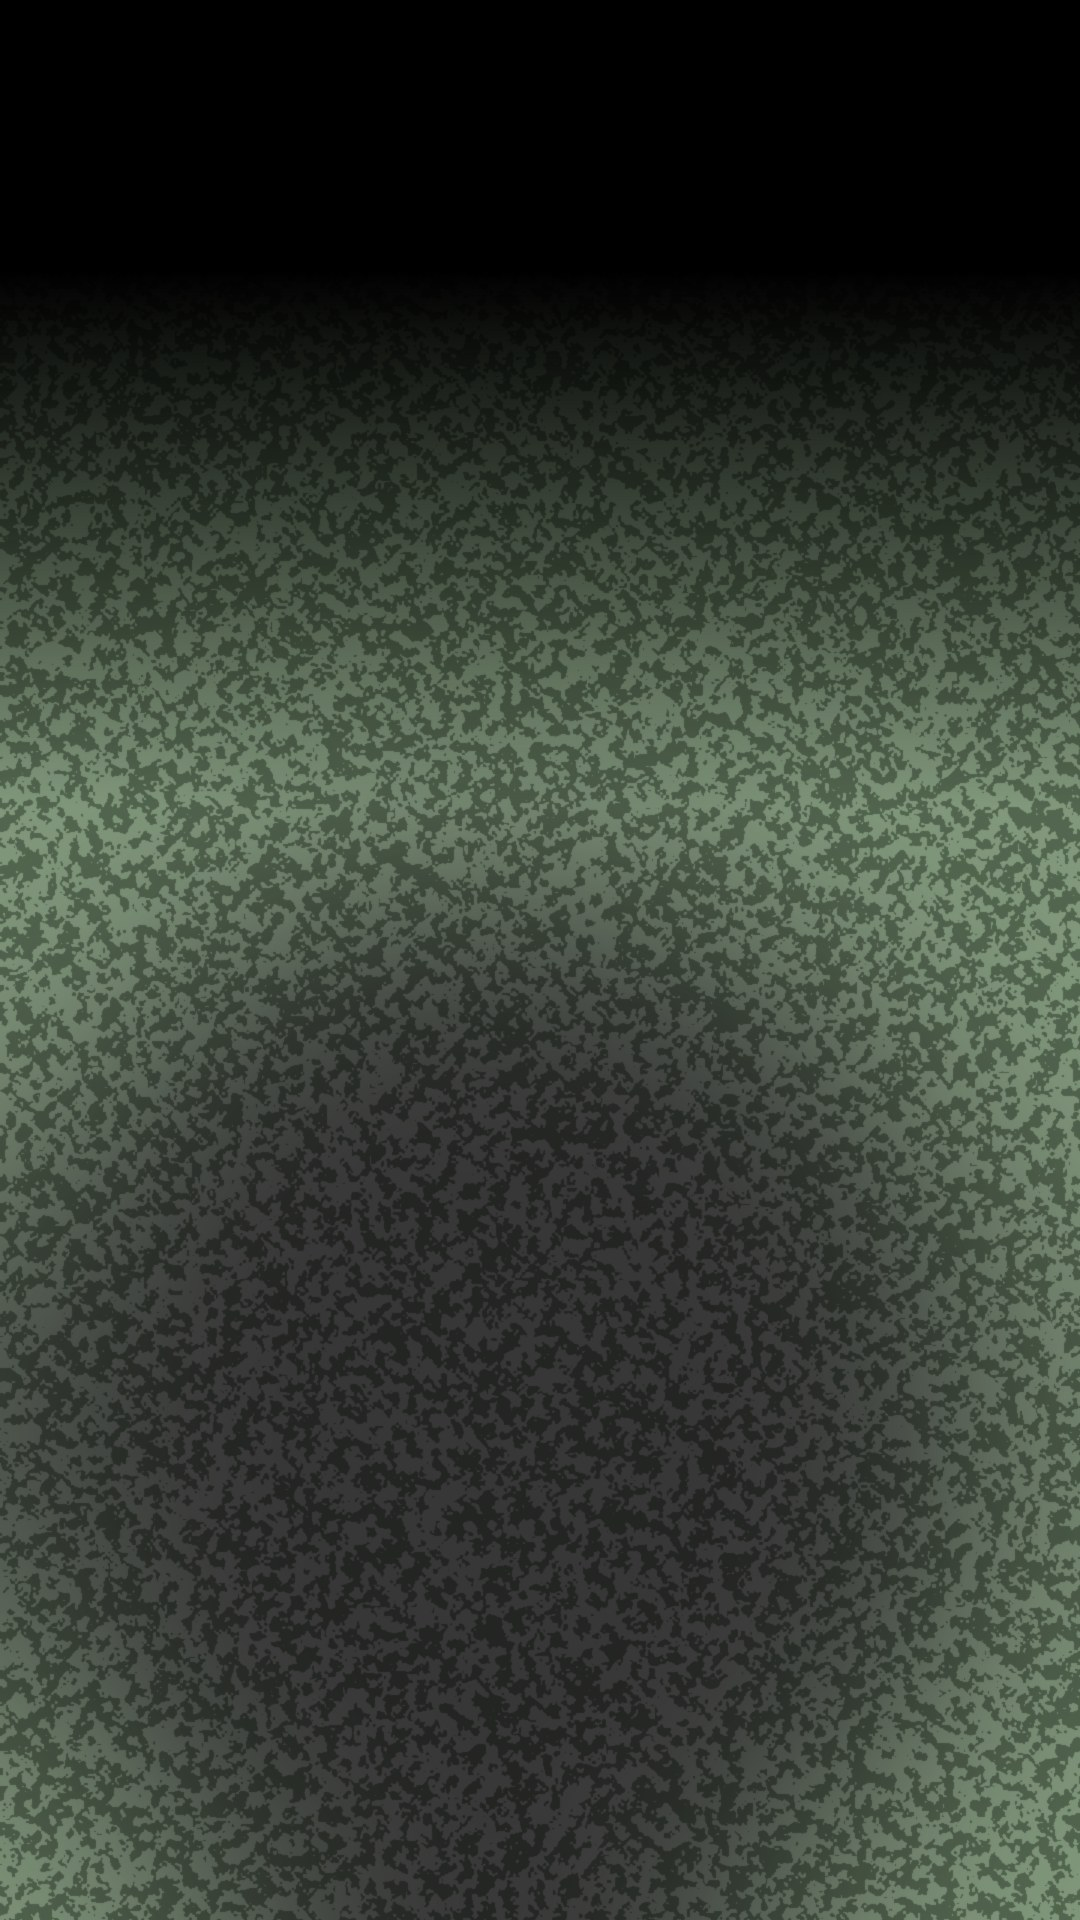
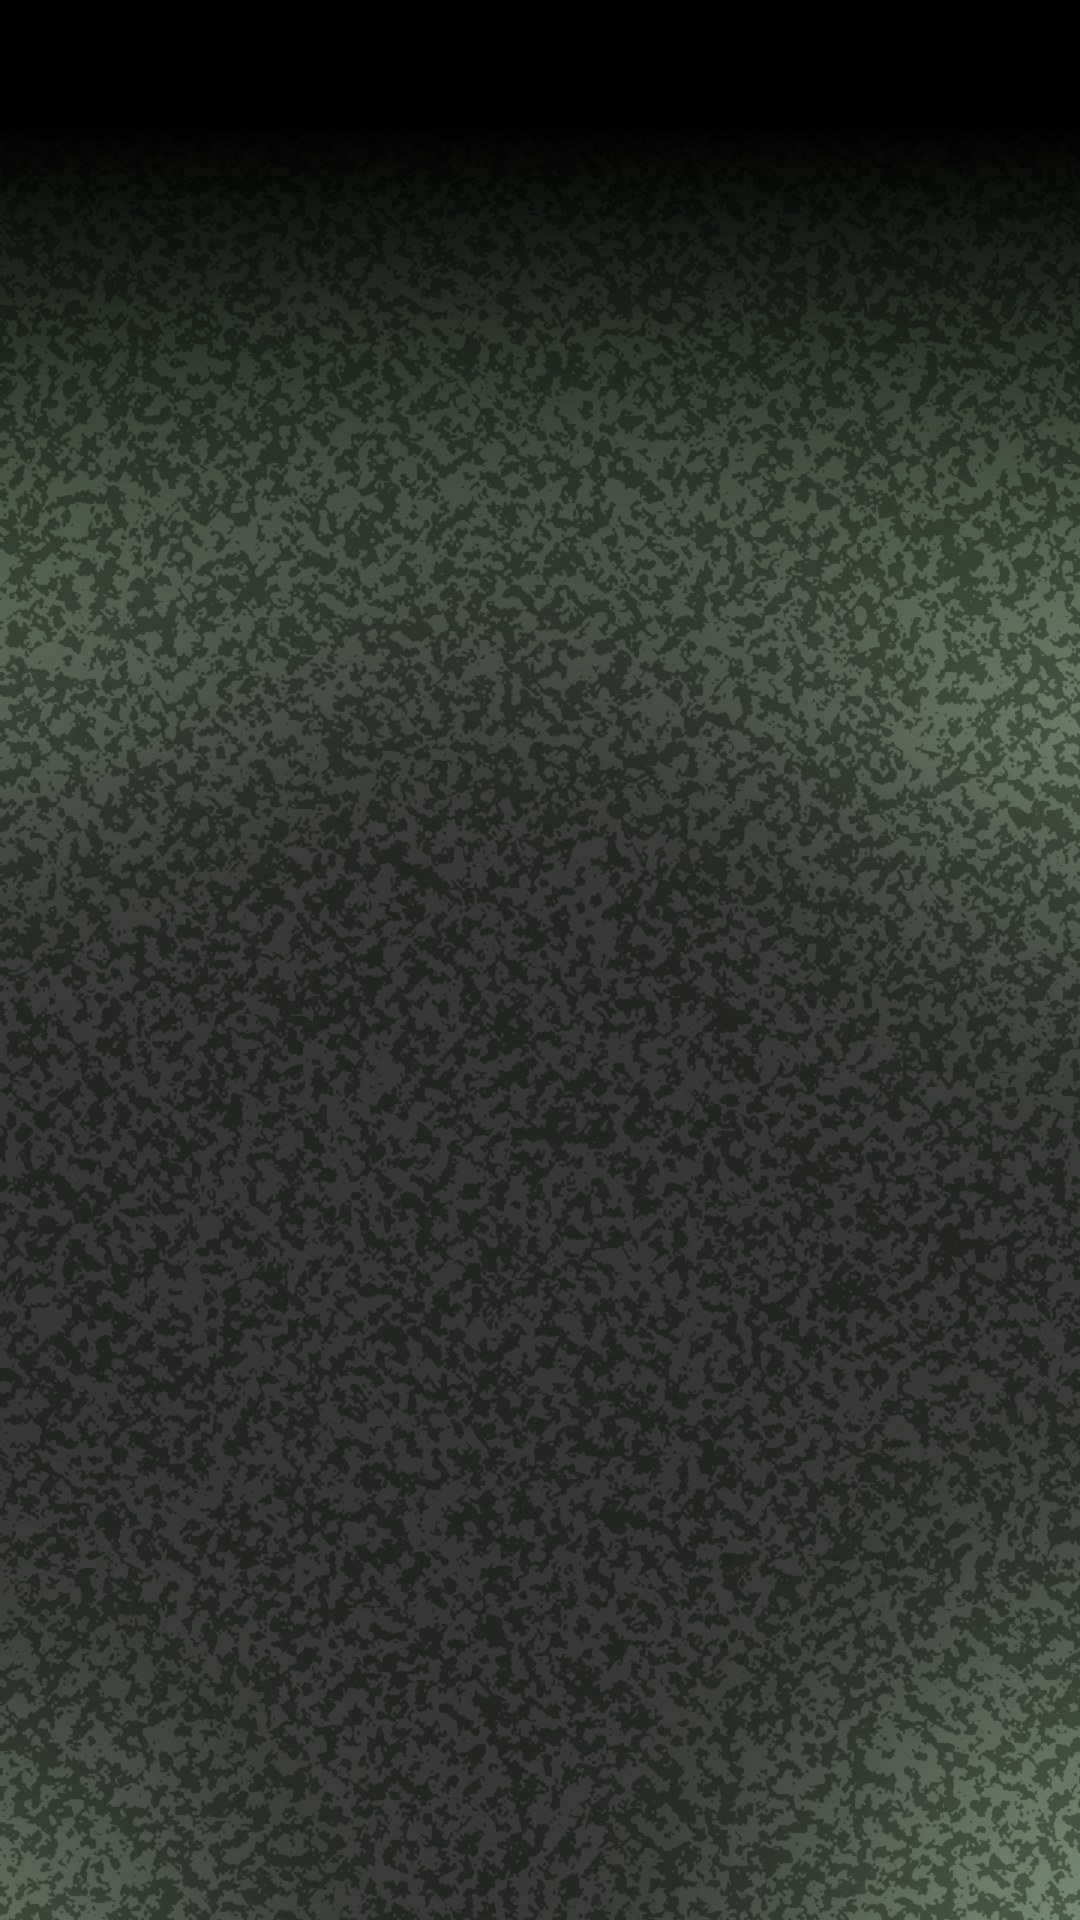
Poster: model drawn 1.5x so she fills the 9:16 height (no empty top); bg, glow and text re-placed to match

diff --git a/public/poster/index.html b/public/poster/index.html
@@ -14,7 +14,7 @@ html, body { margin: 0; width: 100%; height: 100%; background: #000; overflow: h
 #stage { position: absolute; left: 0; top: 0; width: 1080px; height: 1920px; transform-origin: 0 0; overflow: hidden; opacity: 0;
   background: #000 url(bg.jpg) 0 0 / 1080px 1920px no-repeat; }
 .row { position: absolute; left: 0; height: 160px; background: url(row.png) 0 0 / auto 160px repeat-x; will-change: transform; backface-visibility: hidden; }
-.girl { position: absolute; left: 0; top: 570px; width: 1080px; height: 1350px; }
+.girl { position: absolute; left: -180px; top: 120px; width: 1440px; height: 1800px; }   /* Figma frame drawn 1.5x so she fills the height */
 #word { position: absolute; left: 0; width: 1080px; overflow: hidden; }
 .ltr { position: absolute; top: 0; background: url(word.png) no-repeat; will-change: transform; backface-visibility: hidden; }
 #band { position: absolute; top: 0; left: 0; width: 300px; overflow: hidden; will-change: transform; opacity: 0;
@@ -45,7 +45,7 @@ html, body { margin: 0; width: 100%; height: 100%; background: #000; overflow: h
     // 2/10 rows: one shared image strip per row, two loops wide; fade towards the top is a fixed opacity per row
     var host = document.getElementById('rows'), loop = L.rowLoop;
     for (var i = 0; i < 17; i++) {
-      var y = i * 116 - 36, a = Math.max(0, Math.min(1, (y / 1920 - .16) / .46));
+      var y = i * 116 - 36, a = Math.max(0, Math.min(1, (y / 1920 - .12) / .5));
       if (a <= 0.01) continue;
       var row = document.createElement('div'); row.className = 'row';
       row.style.top = y + 'px'; row.style.width = Math.ceil(loop * 2) + 'px'; row.style.opacity = a.toFixed(3);

diff --git a/tools/poster_assets.py b/tools/poster_assets.py
@@ -14,6 +14,11 @@ from PIL import Image, ImageDraw, ImageFilter, ImageFont, ImageChops
 ROOT = pathlib.Path(__file__).resolve().parent.parent
 OUT = ROOT / 'public/poster'; FONT = str(ROOT / 'src/assets/higed.ttf')
 W, H = 1080, 1920
+# The Figma frame is 960x1200; on the 9:16 screen it is drawn 1.5x (1440x1800) at (-180, 120) so the model fills the height.
+FX, FY, FS = -180, 120, 1.5
+def fx(x): return FX + x * FS
+def fy(y): return FY + y * FS
+CAP_TOP = round(fy(90))                                           # KACHA HAUS caps start where the Figma caps do
 
 def lerp(a, b, t): return tuple(round(a[i] + (b[i] - a[i]) * t) for i in range(3))
 def hexc(h): return tuple(int(h[i:i+2], 16) for i in (1, 3, 5))
@@ -24,10 +29,11 @@ bg = Image.new('RGB', (W, H))
 px = bg.load(); d = ImageDraw.Draw(bg)
 for y in range(H):
     t = y / H
-    c = (0, 0, 0) if t <= .14 else sage if t >= .42 else lerp((0, 0, 0), sage, (t - .14) / .28)
+    t0, t1 = FY / H, fy(.34615 * 1200) / H                          # Figma: black at the frame top -> sage at 34.6%
+    c = (0, 0, 0) if t <= t0 else sage if t >= t1 else lerp((0, 0, 0), sage, (t - t0) / (t1 - t0))
     d.line([(0, y), (W, y)], fill=c)
-glow = Image.new('L', (W, H), 0); ImageDraw.Draw(glow).ellipse([0, 887, 988, 887 + 1085], fill=255)
-glow = glow.filter(ImageFilter.GaussianBlur(112))
+glow = Image.new('L', (W, H), 0); ImageDraw.Draw(glow).ellipse([fx(0), fy(282), fx(878), fy(282 + 964)], fill=255)
+glow = glow.filter(ImageFilter.GaussianBlur(100 * FS))
 bg = Image.composite(Image.new('RGB', (W, H), hexc('#373737')), bg, glow)
 random.seed(7)
 def noise(cell):
@@ -55,7 +61,7 @@ strip = strip.filter(ImageFilter.GaussianBlur(4)).point(lambda v: min(255, round
 row = Image.new('RGBA', strip.size, (0, 0, 0, 0)); row.putalpha(strip)
 row.save(OUT / 'row.png', optimize=True)
 
-# ---- KACHA HAUS: fitted to 960 px wide, caps start at y = 612
+# ---- KACHA HAUS: fitted to 960 px wide, caps start at CAP_TOP
 text = 'KACHA HAUS'; size = 100
 size = 100 * 960 / ImageFont.truetype(FONT, 100).getlength(text)
 fw = ImageFont.truetype(FONT, round(size))
@@ -82,6 +88,6 @@ for i, ch in enumerate(text):
     if ch == ' ': continue
     a = left + fw.getlength(text[:i]); b = left + fw.getlength(text[:i + 1])
     letters.append([round(a - 6), round(b - a + 12)])                # a little overlap so no glyph edge is cut
-json.dump({'top': 612 - PAD, 'h': boxH, 'left': round(left), 'width': round(tw), 'letters': letters,
+json.dump({'top': CAP_TOP - PAD, 'h': boxH, 'left': round(left), 'width': round(tw), 'letters': letters,
            'rowLoop': loop_w, 'rowH': 160}, open(OUT / 'layout.json', 'w'))
 print('ok', {p.name: p.stat().st_size for p in OUT.glob('*') if p.suffix in ('.jpg', '.png')}, 'font', round(size), 'loop', round(loop_w))
